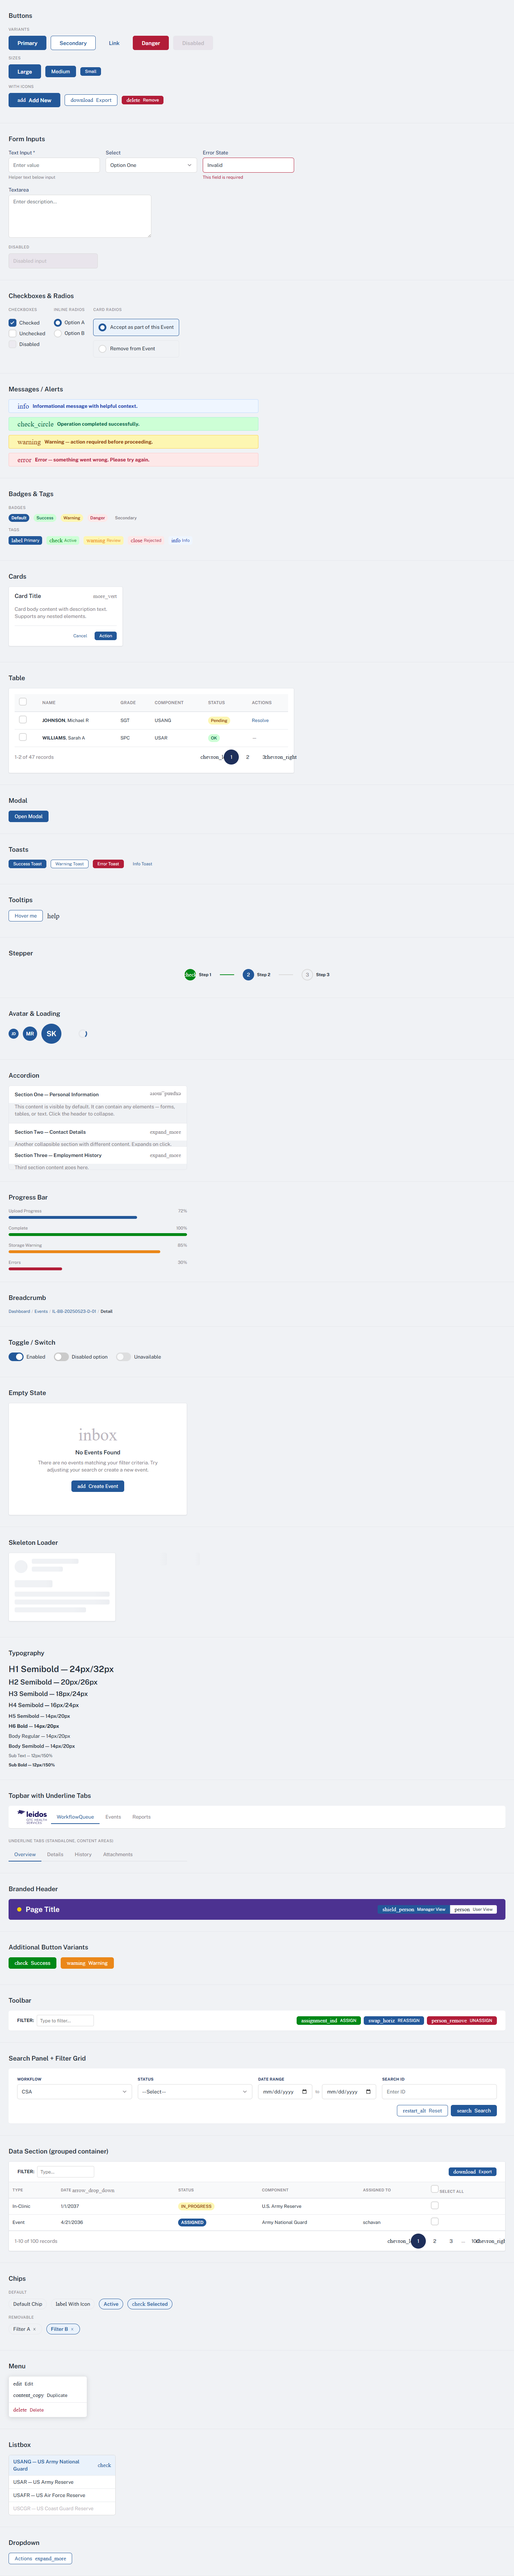
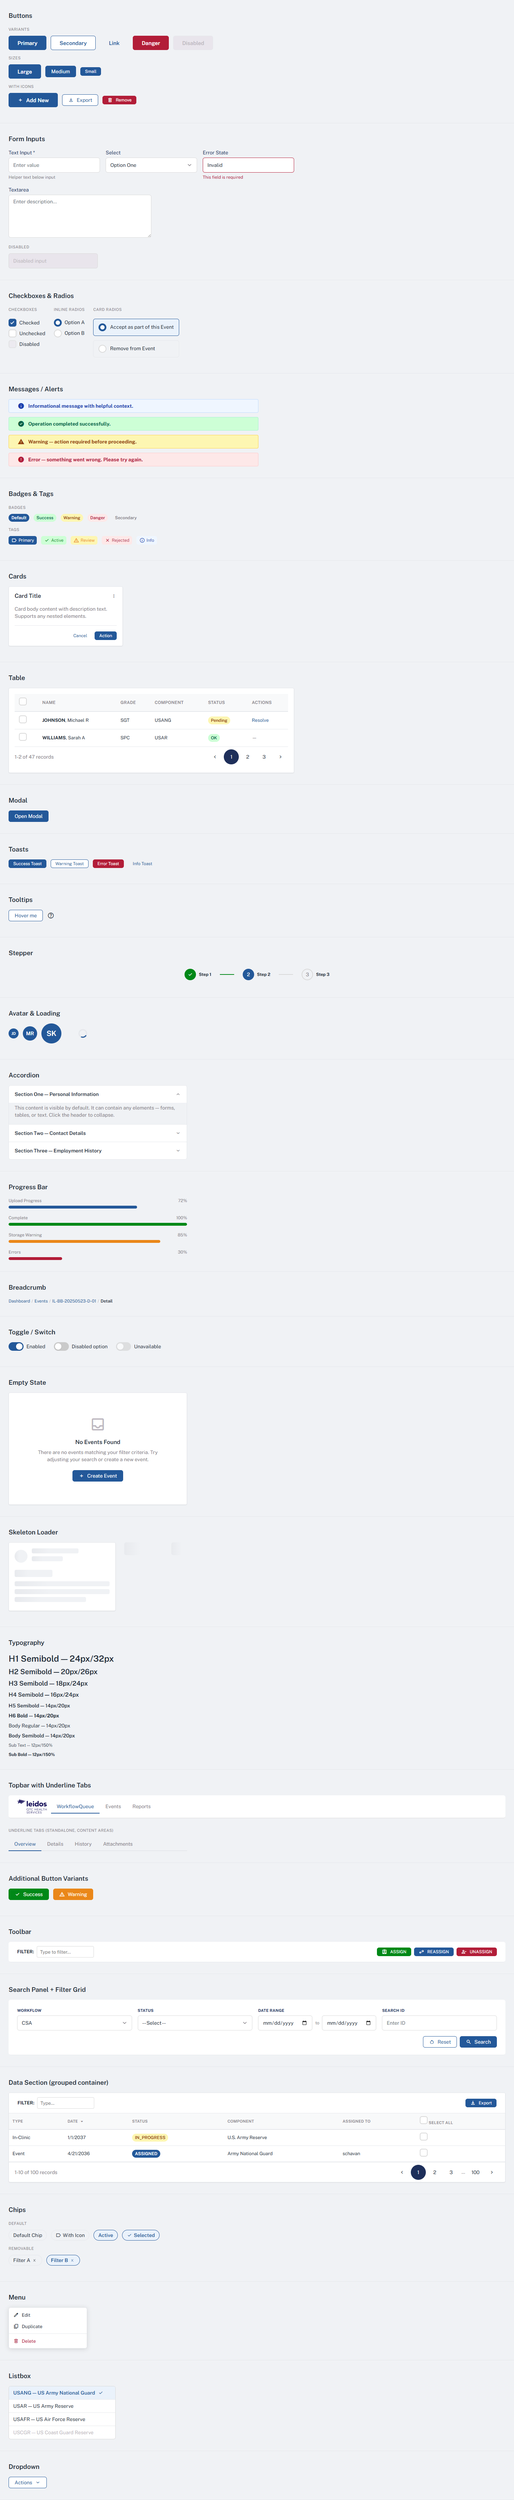
Fix accordion collapse and remove branded header from snippets
- Accordion: move padding to inner wrapper so maxHeight:0 fully hides content
- Remove branded header section (not in Figma UI kit)
- Regenerate snippets screenshot

diff --git a/snippets.html b/snippets.html
@@ -328,7 +328,9 @@
         <span class="material-symbols-outlined icon-sm">expand_more</span>
       </button>
       <div class="unity-accordion-body" id="accordion-1">
-        <p class="unity-body unity-text-secondary">This content is visible by default. It can contain any elements — forms, tables, or text. Click the header to collapse.</p>
+        <div class="unity-accordion-body-inner">
+          <p class="unity-body unity-text-secondary">This content is visible by default. It can contain any elements — forms, tables, or text. Click the header to collapse.</p>
+        </div>
       </div>
     </div>
     <div class="unity-accordion-item">
@@ -337,7 +339,9 @@
         <span class="material-symbols-outlined icon-sm">expand_more</span>
       </button>
       <div class="unity-accordion-body" id="accordion-2">
-        <p class="unity-body unity-text-secondary">Another collapsible section with different content. Expands on click.</p>
+        <div class="unity-accordion-body-inner">
+          <p class="unity-body unity-text-secondary">Another collapsible section with different content. Expands on click.</p>
+        </div>
       </div>
     </div>
     <div class="unity-accordion-item">
@@ -346,7 +350,9 @@
         <span class="material-symbols-outlined icon-sm">expand_more</span>
       </button>
       <div class="unity-accordion-body" id="accordion-3">
-        <p class="unity-body unity-text-secondary">Third section content goes here.</p>
+        <div class="unity-accordion-body-inner">
+          <p class="unity-body unity-text-secondary">Third section content goes here.</p>
+        </div>
       </div>
     </div>
   </div>
@@ -496,24 +502,6 @@
   </div>
 </div>
 
-<!-- ═══════════════ ENTERPRISE: BRANDED HEADER ═══════════════ -->
-<div class="snippet-section">
-  <h2 class="unity-h3">Branded Header</h2>
-  <div class="unity-header-branded" style="border-radius:var(--unity-radius-md);">
-    <div class="unity-header-branded-title">
-      <span class="unity-header-branded-dot"></span>
-      <h1 class="unity-h2">Page Title</h1>
-    </div>
-    <div class="unity-btn-group">
-      <button class="unity-btn unity-btn-sm unity-btn-group-active">
-        <span class="material-symbols-outlined icon-sm">shield_person</span> Manager View
-      </button>
-      <button class="unity-btn unity-btn-sm unity-btn-group-inactive">
-        <span class="material-symbols-outlined icon-sm">person</span> User View
-      </button>
-    </div>
-  </div>
-</div>
 
 <!-- ═══════════════ ENTERPRISE: BUTTON VARIANTS ═══════════════ -->
 <div class="snippet-section">

diff --git a/unity-ui-kit.css b/unity-ui-kit.css
@@ -1900,7 +1900,13 @@ body {
 }
 
 .unity-accordion-body {
-  padding: 0 var(--unity-space-16) var(--unity-space-16);
+  padding: 0;
+  overflow: hidden;
+  transition: max-height 0.2s ease;
+}
+
+.unity-accordion-body-inner {
+  padding: var(--unity-space-4) var(--unity-space-16) var(--unity-space-16);
 }
 
 /* ═══════════════════════════════════════════════════════════
